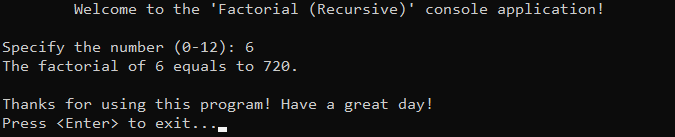
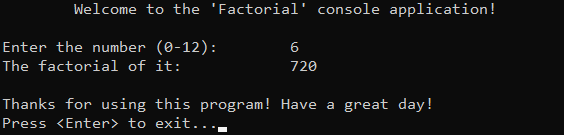
Upd 'Factorial': comparison -> trade-offs, call-stack -> overview, typos, code style, links, formatting.

diff --git a/Algorithms/Recursion/Factorial/Source/Main.cpp b/Algorithms/Recursion/Factorial/Source/Main.cpp
@@ -12,17 +12,18 @@ int main() {
 	// Greet
 	std::cout << "\tWelcome to the 'Factorial' console application!\n";
 
-	// Specify the number 
-	std::cout << "\nSpecify the number (0-12): ";
+	// Prompt the user for input
+	std::cout << "\nEnter the number (0-12):\t";
 	int n = 0;
 	std::cin >> n;
 
-	// Compute and display result
-	std::cout << "The factorial of it: " << factorial(n) << ".\n";
+	// Compute and display the result
+	std::cout << "The factorial of it:\t\t" << factorial(n) << "\n";
 	
 	// Exit
 	std::cout << "\nThanks for using this program! Have a great day!\n";
 	std::cout << "Press <Enter> to exit...";
+	std::cin.ignore();
 	std::cin.get();
 	return 0;
 }

diff --git a/Algorithms/Recursion/Factorial/Factorial.md b/Algorithms/Recursion/Factorial/Factorial.md
@@ -7,10 +7,9 @@
   - [Design Decisions](#design-decisions)
   - [Complete Implementation](#complete-implementation)
   - [Detailed Walkthrough](#detailed-walkthrough)
-  - [Call Stack Interaction](#call-stack-interaction)
 - [📊 Analysis](#-analysis)
   - [Algorithm Characteristics](#algorithm-characteristics)
-  - [Algorithm Comparison](#algorithm-comparison)
+  - [Trade-Offs](#trade-offs)
 - [📝 Application](#-application)
   - [Common Use Cases](#common-use-cases)
   - [Some Practical Problems](#some-practical-problems)
@@ -24,10 +23,11 @@
 
 # &#128161; Overview
 The **factorial** is one of the most fundamental mathematical operations, widely recognized for its role in combinatorics, permutations, and many other mathematical contexts. The term «factorial» comes from «factor», as the operation involves multiplying a sequence of factors to produce a product. Knowledge and understanding of it, lays a solid foundation for algorithmic design and tackling more complex problem-solving strategies.
+<p align="center"><img src="./Images/Factorial.png"/></p>
 
 
 ## Introduction
-**Factorial** of a number (denoted $n!$) is a math operation, which represents product of all positive integers from number $1$ to the given $(n)$, mathematically expressed as $n! = (n-1)!×n$, exception is $0! = 1$, because there is only one way to arrange $0$ as element. 
+**Factorial** of a number (denoted $n!$) is a math operation, which represents product of all positive integers from number $1$ to the given $(n)$, mathematically expressed as $n! = n × (n-1)!$ and the only exception is $0! = 1$, because there is only one way to arrange $0$ as element. 
 
 
 ## Important Details
@@ -37,8 +37,8 @@ The **factorial** is one of the most fundamental mathematical operations, widely
 
 
 ## Algorithm Steps (Recursive)
-1. Define base case, based on the rule «$0! = 1$».
-2. Define recursive case, based on the rule «$n! = (n-1)!×n$».
+1. Define base case, based on the rule: $0! = 1$.
+2. Define recursive case, based on the rule: $n! = n × (n-1)!$.
 
 
 
@@ -55,7 +55,7 @@ To prioritize simplicity and emphasize algorithm itself, several design decision
 
 
 ## Complete Implementation
-Algorithm implemented within the function `factorial()`, which is declared in `Factorial.h` header file and defined in `Factorial.cpp` source file. This approach is adopted to ensure encapsulation, modularity and compilation efficiency. Examination of factorial computation is conducted within the `main()` function located in the `Main.cpp` file. Below you can find related code snippets.
+Algorithm implemented within the function `factorial()`, which is declared in [Factorial.h](https://github.com/vezzolter/DSA/blob/main/Algorithms/Recursion/Factorial/Include/Factorial.h) header file and defined in [Factorial.cpp](https://github.com/vezzolter/DSA/blob/main/Algorithms/Recursion/Factorial/Source/Factorial.cpp) source file. This approach is adopted to ensure encapsulation, modularity and compilation efficiency. Examination of factorial computation is conducted within the `main()` function located in the [Main.cpp](https://github.com/vezzolter/DSA/blob/main/Algorithms/Recursion/Factorial/Source/Main.cpp) file. Below you can find related code snippets.
 
 ```cpp
   int factorial(int n) {
@@ -76,15 +76,6 @@ Algorithm implemented within the function `factorial()`, which is declared in `F
 ```
 
 
-## Call Stack Interaction
-1. Starting the recursion process with the input number $6$. <p align="center"><img src="./Images/Step_1.png"/></p>
-2. Invoking the recursive case repeatedly until the specified criteria are met ($6$ times). <p align="center"><img src="./Images/Step_2.png"/></p>
-3. Upon the $7$-th recursive call, when the value becomes $0$, we initiate the base case, therefore existing the recursive process. <p align="center"><img src="./Images/Step_3.png"/></p>
-4. This marks the phase where the recursion is concluding, and the process of returning the calculated value is underway. <p align="center"><img src="./Images/Step_4.png"/></p> 
-5. Continuing this process until we reach the initial (first) function call. <p align="center"><img src="./Images/Step_5.png"/></p>
-6. Concluding the recursion by returning the final calculated value. <p align="center"><img src="./Images/Step_6.png"/></p> 
-
-
 
 # &#128202; Analysis
 Understanding the characteristics of an algorithm is essential for choosing the right solution to a problem, as it reveals their impact on resource utilization, potential limitations and capabilities. Comparing the algorithm with other approaches provides insights into its strengths and weaknesses, helping to make informed decisions in various scenarios.
@@ -97,8 +88,15 @@ Understanding the characteristics of an algorithm is essential for choosing the 
    - $O(n)$ — some memory gets allocated in the stack, which depends on the amount of calls.
 
 
-## Algorithm Comparison
-Will be Updated in the Future...
+## Trade-Offs
+➕ **Advantages:**  
+- **Simplicity and Clarity** — algorithm consists of simple steps, making it straightforward to understand and implement.  
+
+---  
+➖ **Disadvantages:**  
+- **Slow Computation** — algorithm runs in $O(n)$ time as it performs exactly $n$ multiplications, making it less efficient for very large inputs compared to iterative methods with optimizations.  
+- **Call Stack Overhead** — algorithm requires auxiliary space for function calls in the recursive implementation, leading to $O(n)$ space complexity due to the recursion stack, which can cause stack overflow for large values of $n$.
+
 
 
 # &#128221; Application
@@ -113,6 +111,7 @@ Understanding some of the most well-known use cases of an algorithm is crucial f
 1. [Factorial Trailing Zeroes](https://leetcode.com/problems/factorial-trailing-zeroes)
 2. [Clumsy Factorial](https://leetcode.com/problems/clumsy-factorial)
 3. [Memoize](https://leetcode.com/problems/memoize)
+
 
 
 # &#x1F559; Origins
@@ -136,12 +135,10 @@ For contact details and additional information, please refer to the [root direct
 
 # &#128591; Credits
 &#128218; **Books:**
-- **"Introduction to Algorithms" (3rd Edition)** — by Thomas H. Cormen, Charles E. Leiserson, Ronald L. Rivest and Clifford Stein
-  - Appendix C: Counting and Probability.
-- **"Data Structures and Algorithm Analysis in C++" (4th Edition)** — by Mark Allen Weiss
-  - Section 2.4: Running-Time Calculations.
 - **"Algorithms in C++, Parts 1-4: Fundamentals, Data Structure, Sorting, Searching" (3rd Edition)** — by Robert Sedgewick
-  - Section 5.1: Recursive Algorithms.
+  - Section 5.1: Recursive Algorithms
+- **"Data Structures and Algorithm Analysis in C++" (4th Edition)** — by Mark Allen Weiss
+  - Section 2.4: Running-Time Calculations
 
 ---
 &#127891; **Courses:**
